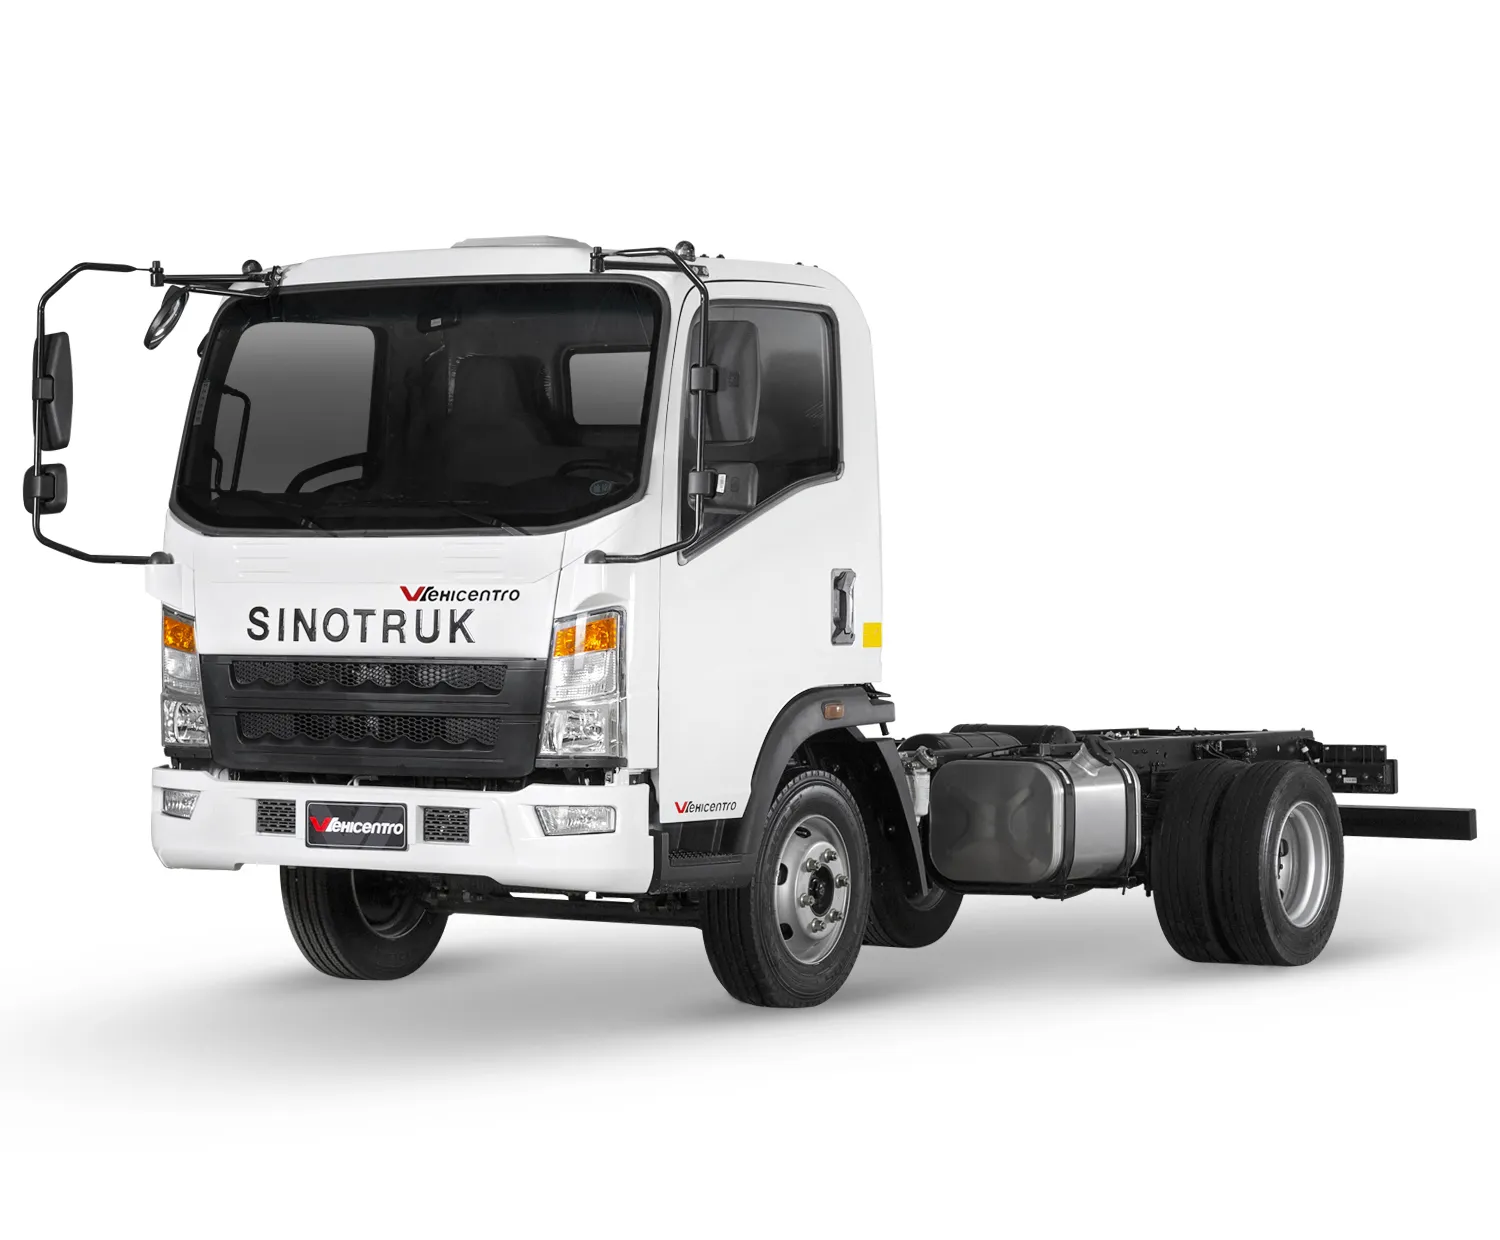
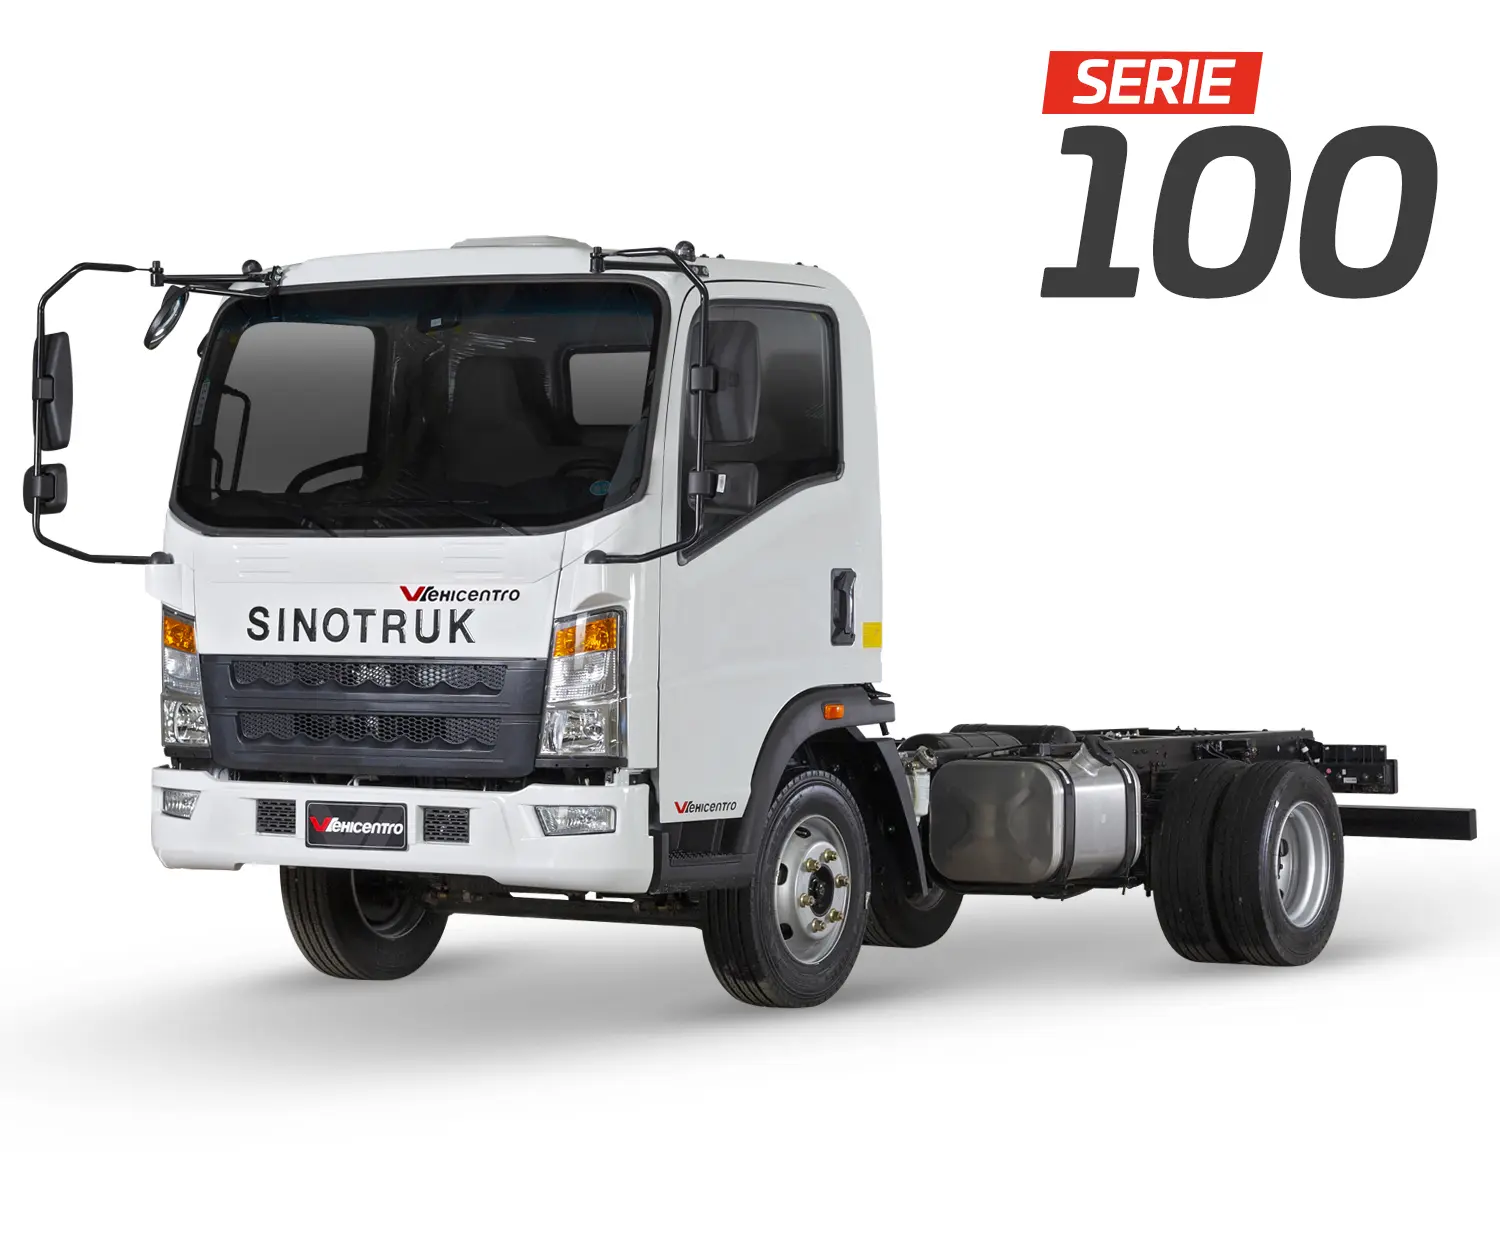
cambios 32

diff --git a/src/NavBar.js b/src/NavBar.js
@@ -92,7 +92,7 @@ export default function NavBar() {
 
                     document.querySelector(".item-level-3").classList.remove("nav-header-s")
                     document.querySelector(".item-level-3").classList.add("nav-header-h")
-                    break;                    
+                    break;
 
             }
 
@@ -286,33 +286,33 @@ export default function NavBar() {
                 }
             });
 
-           /* compania.addEventListener("click", () => {
-                nav.classList.toggle("nav-active");
-                navSearch[0].classList.toggle("nav-search-active");
-
-                document.querySelector('nav > .logo').classList.toggle("logoNav");
-                navh.classList.toggle("nav-inactive");
-
-                navLinks.forEach((link, index) => {
-                    if (link.style.animation) {
-                        link.style.animation = "";
-                    } else {
-                        link.style.animation = `navLinkFade 0.5s ease forwards 0.5s `;
-                    }
-                });
-
-                document.querySelector(".menu1").classList.add("logob")
-
-                if (auxMovil == 0)
-                    resetMenu();
-
-                burger.classList.toggle("toggle");
-                if (burger.classList.contains('toggle')) {
-
-                } else {
-                    document.querySelector(".menu1").classList.remove("logob")
-                }
-            });*/
+            /* compania.addEventListener("click", () => {
+                 nav.classList.toggle("nav-active");
+                 navSearch[0].classList.toggle("nav-search-active");
+ 
+                 document.querySelector('nav > .logo').classList.toggle("logoNav");
+                 navh.classList.toggle("nav-inactive");
+ 
+                 navLinks.forEach((link, index) => {
+                     if (link.style.animation) {
+                         link.style.animation = "";
+                     } else {
+                         link.style.animation = `navLinkFade 0.5s ease forwards 0.5s `;
+                     }
+                 });
+ 
+                 document.querySelector(".menu1").classList.add("logob")
+ 
+                 if (auxMovil == 0)
+                     resetMenu();
+ 
+                 burger.classList.toggle("toggle");
+                 if (burger.classList.contains('toggle')) {
+ 
+                 } else {
+                     document.querySelector(".menu1").classList.remove("logob")
+                 }
+             });*/
             //INI PARAMS
 
 
@@ -351,44 +351,44 @@ export default function NavBar() {
                 case "6":
                     document.querySelector(".item-level-6").classList.toggle("nav-header-h")
                     document.querySelector(".item-level-6").classList.toggle("nav-header-s")
-                    break;    
+                    break;
                 default:
                     break;
             }
         }
 
-      /*  const modalVideo = (vid, poster) => {
-            const para = document.createElement("div");
-            para.classList.add("modal");
-            document.querySelector("body").appendChild(para);
-
-            para.addEventListener('click', () => {
-                para.remove()
-            })
-
-            //CLOSE BTN
-            var img = document.createElement('img');
-            img.src = './images/close-icon.png';
-            img.addEventListener("click", () => {
-                para.remove()
-            })
-            img.classList.add("modalClose");
-            para.appendChild(img);
-
-            //VIDEO ELEMENT
-            var video = document.createElement('video');
-            video.classList.add("modalVideo");
-            video.src = './images/' + vid;
-            video.poster = './images/' + poster
-            video.autoplay = true;
-            video.controls = true;
-            video.muted = false;
-            para.appendChild(video);
-
-            video.addEventListener('click', (event) => {
-                event.stopPropagation();
-            })
-        }*/
+        /*  const modalVideo = (vid, poster) => {
+              const para = document.createElement("div");
+              para.classList.add("modal");
+              document.querySelector("body").appendChild(para);
+  
+              para.addEventListener('click', () => {
+                  para.remove()
+              })
+  
+              //CLOSE BTN
+              var img = document.createElement('img');
+              img.src = './images/close-icon.png';
+              img.addEventListener("click", () => {
+                  para.remove()
+              })
+              img.classList.add("modalClose");
+              para.appendChild(img);
+  
+              //VIDEO ELEMENT
+              var video = document.createElement('video');
+              video.classList.add("modalVideo");
+              video.src = './images/' + vid;
+              video.poster = './images/' + poster
+              video.autoplay = true;
+              video.controls = true;
+              video.muted = false;
+              para.appendChild(video);
+  
+              video.addEventListener('click', (event) => {
+                  event.stopPropagation();
+              })
+          }*/
 
         const navSlideClick = () => {
             const navLinks = document.querySelectorAll(".nav-links a");
@@ -408,7 +408,7 @@ export default function NavBar() {
                             break;
                         case "compania":
                             menuSelect("compania")
-                            break;    
+                            break;
                     }
                 })
             })
@@ -485,7 +485,7 @@ export default function NavBar() {
         </div>
         <ul className="nav-links">
 
-          
+
             <li>
                 <a className="" href="#" option="sinotruk">SINOTRUK</a>
                 <div className="item-level-0 nav-header nav-header-h" >
@@ -647,6 +647,7 @@ export default function NavBar() {
             <li className="item-level-8 linkContact">
             </li>
         </ul>
-        <img className="sinoIcon" src="./images/home/logo-sinotruk-leon.webp" width="663" height="163" alt="Sinotruk" />
+            <img className="sinoIcon" src="./images/home/logo-sinotruk-leon.webp" width="663" height="163" alt="Sinotruk" />
+        
     </nav>
 } 

diff --git a/src/pages/Camion.js b/src/pages/Camion.js
@@ -540,6 +540,104 @@ function Camion() {
             contenedorVidaUtil = <div className="banner"><img src="../images/3.5-toneladas/homologado.webp" /></div>
             break;
 
+
+        //3.6 toneladas
+        case "camion-de-3-6-toneladas":
+            console.log('3.6 toneladas')
+            nombreCamion = "Camion de 3.6 toneladas | 1057"
+            camionSerie = "1057 / 3.6 TON"
+            nombreSerie = "Serie 100"
+            bdc = "https://bdc.vehicentro.com:9443/ords/ws_vehicentro/api/conexiones/wordpress/WEB3T1157"
+            images = [
+                "../images/3.6-toneladas/camion-blanco-sinotruk-de-3.6-toneladas-ecuador.webp",
+                "../images/3.6-toneladas/camion-blanco-sinotruk-de-3.6-toneladas-de-frente-ecuador.webp"
+            ];
+            textoMotor1 = "100% Aire"
+            textoMotor2 = "Modelo 1057 - 3.6 Ton"
+            textoMotor3 = "Ficha técnica"
+            precio = "$23.990"
+            cuotas = 'Cuotas desde: $447.00'
+            motor = "../images/3.6-toneladas/motor-sinotruk-de-camion-de-3.6-toneladas-ecuador.webp"
+            garantia = "../images/3.6-toneladas/5-anos-de-garantia.webp"
+            tecnologia = "../images/3.6-toneladas/serie-100.webp"
+
+            caracteristicas = [
+                "../images/3.6-toneladas/camion-de-3.6-toneladas-potencia-87hp.webp",
+                "../images/3.6-toneladas/camion-de-3.6-toneladas-cilindraje.webp",
+                "../images/3.6-toneladas/camion-de-3.6-toneladas-freno-de-aire.webp",
+                "../images/3.6-toneladas/camion-de-3.6-toneladas-inyeccion-common-rail.webp"
+            ]
+            cabina = "../images/3.6-toneladas/cabina-de-camion-de-3.6-toneladas-sinotruk.webp"
+            marcas = ""
+            internas1 = [
+                "../images/3.6-toneladas/volante-deportivo.webp",
+                "../images/3.6-toneladas/ventilacion.webp"
+            ];
+            internas2 = [
+                "../images/3.6-toneladas/palanca-de-cambios.webp",
+                "../images/3.6-toneladas/bloqueo.webp"
+            ];
+            internas1b = [
+                "../images/3.6-toneladas/radio-mp5.webp",
+                "../images/3.6-toneladas/vidrios-electricos.webp"
+            ];
+            internas2b = [
+                "../images/3.6-toneladas/cabina.webp"
+            ];
+            medidas = "../images/3.6-toneladas/dimensiones-de-camion-de-3.6-toneladas-sinotruk.webp"
+            medidasMovil = "../images/3.6-toneladas/dimensiones-de-camion-de-3.6-toneladas-sinotruk-responsive.webp"
+            audio_motor = "../images/3.6-toneladas/motor.mp3"
+
+
+            internas = ((internas1.concat(internas2)).concat(internas1b)).concat(internas2b)
+            //loop slider
+
+            slide3 = internas1b.map((interna) =>
+                <div className="each-slide-effect" >
+                    <div style={{ 'backgroundImage': `url(${interna})`, height: `25vw` }}>
+                    </div>
+                </div>
+            );
+
+            slide3b = internas2b.map((interna) =>
+                <div className="each-slide-effect" >
+                    <div style={{ 'backgroundImage': `url(${interna})`, height: `25vw` }}>
+                    </div>
+                </div>
+            );
+
+            contenedorMarcas = <div style={{ display: `contents` }} >
+                {internas1b.length > 1 &&
+                    <div className="boxRightHeader  half noResponsive" style={{ width: `50%` }}>
+                        <Fade >
+                            {slide3}
+                        </Fade>
+                    </div>
+                }
+                {internas1b.length == 1 &&
+                    <div className="boxRightHeader  half noResponsive" style={{ width: `50%` }}>
+                        <img src={internas1b[0]} alt="" />
+                    </div>
+                }
+
+                {internas2b.length > 1 &&
+                    <div className="boxRightHeader  half noResponsive" style={{ width: `50%` }}>
+                        <Fade >
+                            {slide3b}
+                        </Fade>
+                    </div>
+                }
+                {internas2b.length == 1 &&
+                    <div className="boxRightHeader  half noResponsive" style={{ width: `50%` }}>
+                        <img src={internas2b[0]} alt="" />
+                    </div>
+                }
+            </div>
+
+            contenedorVidaUtil = <div className="banner"><img src="../images/3.6-toneladas/homologado.webp" /></div>
+            break;
+
+
         //5 toneladas
         case "camion-de-5-toneladas-1067":
             console.log('5 toneladas')
@@ -840,6 +938,10 @@ function Camion() {
 
         case "camion-de-3-5-toneladas-1057":
             imagen = "../images/3.5-toneladas/camion-de-3.5-toneladas-en-la-carretera-sinotruk.webp"
+            break;
+
+        case "camion-de-3-6-toneladas":
+            imagen = "../images/3.6-toneladas/camion-de-3.6-toneladas-en-la-carretera-sinotruk.webp"
             break;
 
         case "camion-de-5-toneladas-1067":

diff --git a/src/styles.css b/src/styles.css
@@ -1521,6 +1521,7 @@ li.mouseA:hover {
     right: 30px;
     width: 20vw;
     height: auto;
+    
 }
 
 .telefonoInicio {
